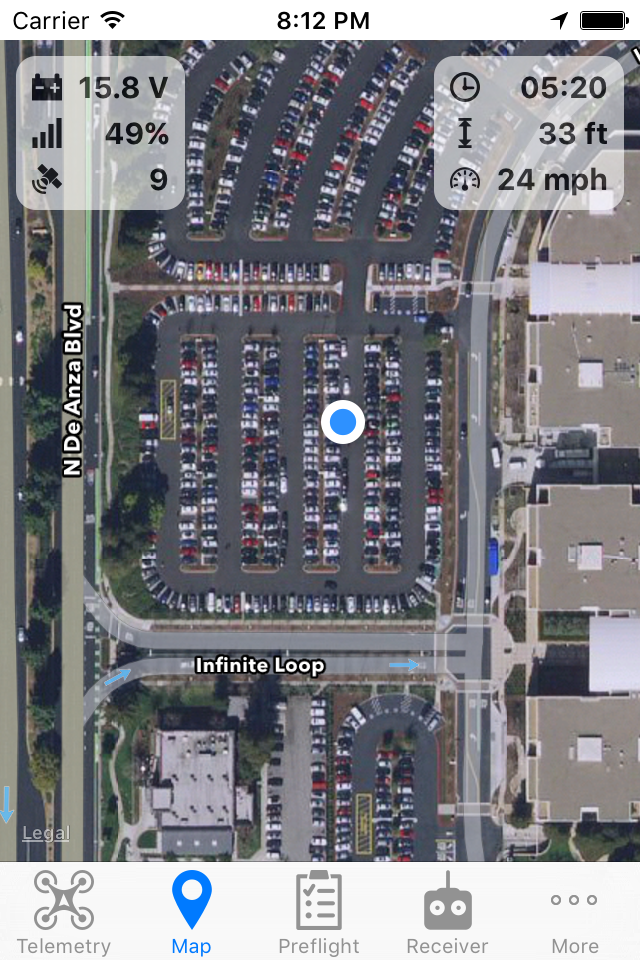
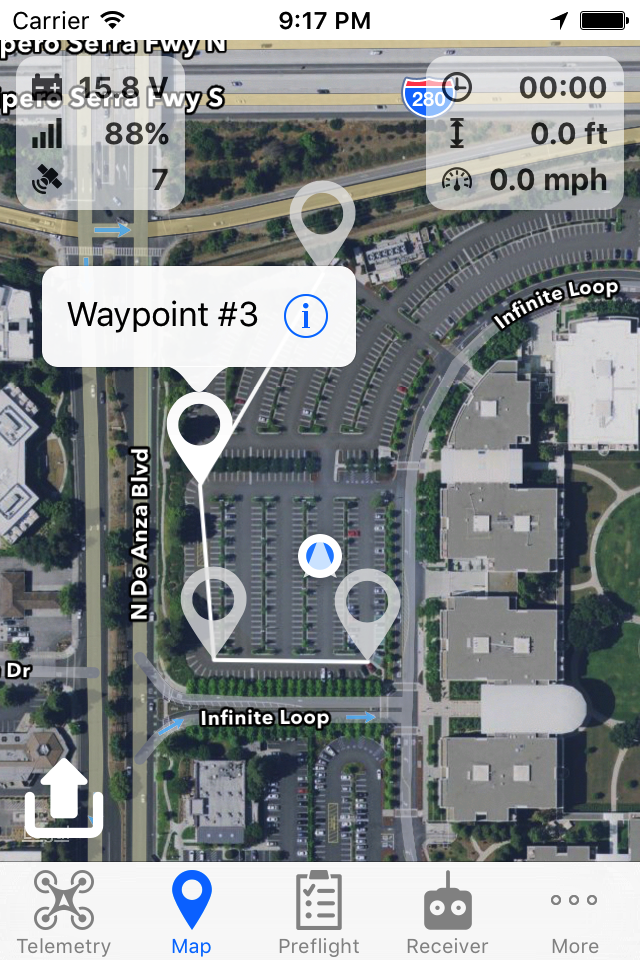
Fixed crash in 2.0.2 when saving configuration. Make simulator work for INAV as well. Updated App Store screenshots.

diff --git a/Cleanflight Configurator/Simulator.swift b/Cleanflight Configurator/Simulator.swift
@@ -102,7 +102,17 @@ class Simulator : CommChannel {
             position.y = y
             OSD.theOSD.elements.append(position)
         }
-
+        
+        let inavState = INavState.theINavState
+        inavState.accStatus = .Known(.Healthy)
+        inavState.gyroStatus = .Known(.Healthy)
+        inavState.baroStatus = .Known(.Healthy)
+        inavState.gpsStatus = .Known(.Healthy)
+        inavState.magStatus =  .Known(.Healthy)
+        
+        inavState.armingFlags.insert(.NavigationSafety)
+        inavState.armingFlags.remove(.OkToArm)
+        
         msp.openCommChannel(self)
         msp.communicationEvent.raise(true)
 

diff --git a/Cleanflight Configurator/MSP.swift b/Cleanflight Configurator/MSP.swift
@@ -1435,7 +1435,7 @@ class MSPParser {
     }
     
     func sendRxFailConfig(settings: Settings, index: Int = 0, callback:((success:Bool) -> Void)?) {
-        if settings.rxFailMode!.count == 0 {
+        if settings.rxFailMode == nil || settings.rxFailMode!.count == 0 {
             // Happens when RX config is invalid
             callback?(success: true)
             return
@@ -1784,6 +1784,10 @@ class MSPParser {
     
     var replaying: Bool {
         return commChannel is ReplayComm
+    }
+    
+    var simulating: Bool {
+        return commChannel is Simulator
     }
     
     var isWifi: Bool {

diff --git a/Cleanflight Configurator/MapViewController.swift b/Cleanflight Configurator/MapViewController.swift
@@ -89,7 +89,7 @@ class MapViewController: UIViewController, MKMapViewDelegate, CLLocationManagerD
         batteryEventHandler = msp.batteryEvent.addHandler(self, handler: MapViewController.receivedBatteryData)
         gpsEventHandler = msp.gpsEvent.addHandler(self, handler: MapViewController.receivedGpsData)
         
-        if Configuration.theConfig.isINav {
+        if Configuration.theConfig.isINav && !msp.simulating {
             let inavState = INavState.theINavState
             if inavState.waypoints.isEmpty {
                 downloadWaypoints()
